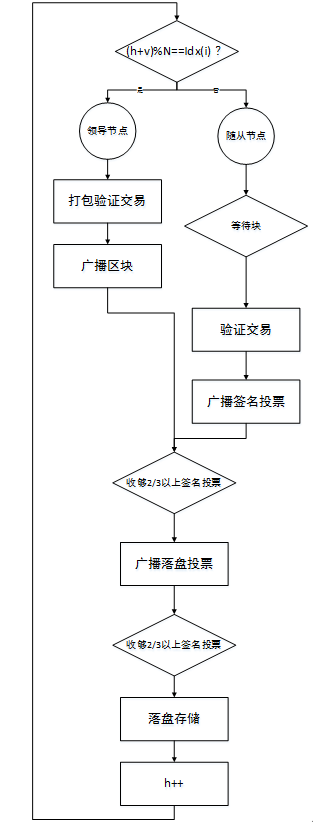
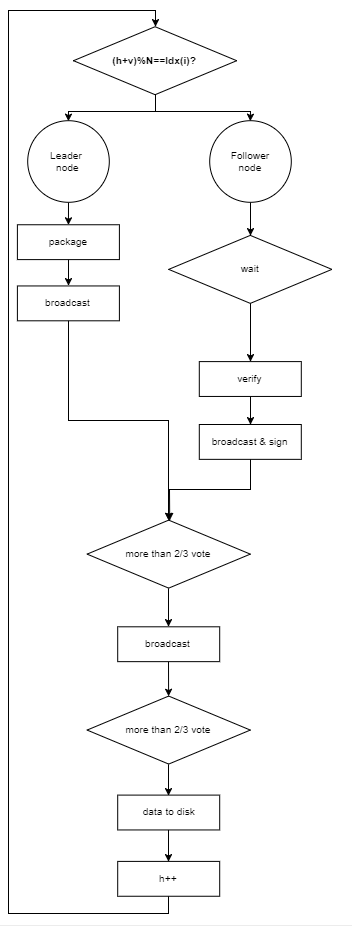
update Multi-Node Parallel Practical Byzantine Fault Tolerance Consensus english introduction

diff --git a/docs/Multi-Node Parallel Practical Byzantine Fault Tolerance Consensus.md b/docs/Multi-Node Parallel Practical Byzantine Fault Tolerance Consensus.md
@@ -1,10 +1,10 @@
-# Multi-Node Parallel Practical Byzantine Fault Tolerance Consensus
+# Multi-Node Parallel Practical Byzantine Fault Tolerance Consensus Algorithm
 **Author: fisco-dev**  
 
 ## 1. Glossary
 ### Blockchain:   
 Blockchain is a growing list of records, called blocks, which are linked using cryptography. Each block contains current block data and a cryptographic hash of the previous block. There are two key concepts of blockchain: cryptography and decentralization. Based on there two key concepts, the block data can not be tampered. 
-A block contains block head and block body. The block head contains the block height(h), previous block hash(prevHash) and etc, and the block body mainly contains transaction data.
+A block contains block head and block body. The block head contains the block height(h), previous block hash(prevHash) and etc., and the block body mainly contains transaction data.
 <br>
 ![](./assets/pbft_blockchain.jpg)  
 ### P2P(peer-to-peer) network: 
@@ -15,7 +15,7 @@ Unlike traditional centralized networks, P2P networks is that participants make 
 4. **Cost-effective**: In the P2P network,The nodes are generally ordinary machines and use the ordinary machines to build the entire network system for industrial level service, so it has a considerable cost advantage. 
 ### Node: 
 In a P2P network, every participant is a node and the nodes constitute the blockchain. In a blockchain P2P network, a node is a uniquely-identified participant with a complete ledger copy, and able to participate in consensus and account maintenance.
-### Consensus: 
+### Consensus algorithm: 
 Every node in the blockchain P2P network confirms a batch of transactions by an algorithm and ensures that all nodes have consistent confirmation results for the batch of transactions. This algorithm is a blockchain consensus.
 ### Byzantine Fault Tolerant(BFT): 
 Byzantine fault tolerance comes from the Byzantine general problem. In a P2P network system, nodes may operate in any form, includes jointly to be evil. As long as the number of such faulty nodes is within a certain range and the system is still functioning properly, means the system has Byzantine fault tolerance.
@@ -24,34 +24,34 @@ Byzantine fault tolerance comes from the Byzantine general problem. In a P2P net
 ### 2.1 Existing consensus
 The existing consensus algorithms of blockchain mainly include Proof of Work(POW), Proof of Stake(POS), Delegated Proof of Stake(DPOS) and Practical Byzantine Fault Tolerance(PBFT). Among consensus algorithms, POW, POS, DPOS are mainly used for public chains like bitcoin, but PBFT is used for traditional distributed systems, which accomplishes the consensus algorithm through three rounds of broadcast communication.   
  ![](./assets/pbft_consensus.jpg)
-### 2.2 Insufficient calculation of existing consensus
+### 2.2 Insufficient calculation of existing consensus algorithm
 - POW build consensus through computation, so it causing a lot of energy consumption also unstable block generating time.
 - POS、DPOS build consensus by using token, so it may easy to cause the tokens to be centralized, so that the consensus is controlled by a few people, and a few people can work together to destroy the network;
-- PBFT是一种可用的拜占庭容错算法, 但是由于该算法的三个阶段是串行执行, 存在共识效率低的问题. 
+- PBFT algorithm's three phases are serial computing so consensus efficiency is low.
 
-## 3. 应用于区块链的多节点并行拜占庭容错共识算法
-### 3.1 节点角色
-区块链节点的角色有两种, 分别是“领导节点”和“随从节点”. 
-- 领导节点: 负责对交易进行打包成块, 把块广播给其他节点, 通过共识过程对块中所有交易进行确认, 从而使得区块链的区块高度不断增加. 
-- 随从节点: 负责接收从领导节点发送来的区块, 对区块中的交易进行确认, 所有交易都确认完毕就对该块进行签名验证, 从而使共识达成. 
-### 3.2 角色变迁
-在本算法中, 节点的角色不是固定不变的, 随着时间迁移节点角色也会进行变迁. 
-区块链网络由一个个节点组成, 假设一共有N个节点, 对节点从0,1,2...N-1进行编号, 每个节点对应一个唯一的Idx(i). 一个节点的角色判断通过公式 （h+v）%N 来决定, 其中h是区块链当前块高度, v是当前视图（视图的定义在3.4节会详细阐述）.   
-角色变迁图如下所示:   
+## 3. Multi-Node Parallel Practical Byzantine Fault Tolerance Consensus Algorithm
+### 3.1 Node Roles
+- Leader node: Leader packages and broadcasts the block to other nodes. Transactions in the block are verified by consensus algorithm and after verification the block height will increase.
+- Follower node: Followers receive block from the leader node and confirm whether the transaction is valid, followers will sign the signature to the block when the nodes agree on a block., then the consensus process is done.
+### 3.2 Node's role transition
+In PBFT, node's role is changed as time going.
+As we known that bloclchain build up by nodes, assume that there are N nodes totally, and each node has a unique index: Idx(i). and node's role is decided by a formula: (h+v)%N. h is the current block height, v is the current view(more information about view in section  [3.4 Exception handling](#exception-handling)).
  ![](./assets/pbft_role.png)
-### 3.3 共识过程
-共识过程就是区块链网络对一批交易进行确认, 并达到全网一致的过程. 共识过程分为以下几个阶段:   
-1. 选举领导: 通过3.2描述的算法推选出一个领导, 有别于其他基于投票选举领导的算法, 在本专利中是通过共识计算选出合适的领导, 这种方式具有更高的效率.   
-2. 打包验证交易: 选举出的领导节点, 将会一批交易进行打包验证, 组成一个区块, 区块的产生也就由领导节点负责.   
-3. 签名投票: 随从节点对领导节点发送来的区块, 进行每一笔交易确认验证, 全部通过之后发送对该块的一个投票签名.   
-4. 落盘投票: 所有节点在收到2/3以上节点的签名投票之后, 广播落盘投票.   
-5. 落盘提交: 所有节点在收到2/3以上节点额落盘投票之后, 把该块进行落盘存储.     
- ![](./images/process.png) 
-###  3.4 异常处理机制
+### 3.3 Consensus decision-making
+
+Consensus decision-making is a group decision-making process, and agree to support a decision of the whole. Consensus decision-making has following steps:
+1. Leader election: Use the algorithm mentioned in section 3.2 to elect a leader. Compare with the traditional leader election algorithm, the patent algorithm holds by FISCO BCOS is more efficient.
+2. Package transaction: Leader packages and creats a new block, then broadcasts the block to other nodes.
+3. Sign: Followers receive block from the leader node and confirm whether the transaction is valid, followers will sign the signature to the block when the nodes agree on a block.
+4. Vote: If more than 2/3 of all nodes sign the transaction, then broadcast it.
+5. Data to disk: If more than 2/3 of all nodes vote, then store the data to disk.
+<br>
+ ![](./assets/pbft_process.png) 
+###  3.4 Exception handling
 在3.3的描述的共识过程几个阶段, 每个阶段都有可能因为出现错误、超时或者故意作恶等各种原因致使无法顺利进入下一个阶段, 从而使共识无法达成. 本专利引入异常处理机制解决这种问题.   
 把一次共识共识的全过程定义为一个视图, 所有阶段需要在同一个视图下完成.   
 当一个节点完成块h的落盘存储之后, 意味着它就需要开始块h+1的共识过程, 此时会对块h+1的共识设置一个超时器, 当到达超时还未完成共识过程就会引起视图切换过程. 视图切换的过程首先是将自己的视图v++, 然后把v全网广播告知所有节点, 如果收到2/3以上节点都有相同的视图v切换请求, 就顺利切换到下一个视图.   
-![](./images/error.png)   
+![](./assets/pbft_error.png)   
 ### 3.5 并行机制
 在3.3介绍的共识过程中, 打包验证交易和验证交易分别是领导节点和随从节点对交易进行确认的操作, 这是整个共识过程中最耗时的环节. 从图中可以看出, 打包验证交易和验证交易是串行执行的, 首先要由领导节点完成打包验证交易, 随从节点的验证交易才能开始进行, 假设交易确认耗时为T, 其他过程总耗时为T’, 那么整个共识的耗时就为2*T+T’. 本专利对交易确认机制提出并行化的改进设计, 整体共识耗时降为T+T’, 大大提高了共识效率.   
-![](./images/parallel.png)  
+![](./assets/pbft_parallel.png)  

diff --git a/docs/AMOP.md b/docs/AMOP.md
@@ -2,19 +2,19 @@
 **Author: fisco-dev**  
 ## Introduction
 AMOP (Advance Messages Onchain Protocol) aims to provide a safe and efficient message channel. In consortium chain, all nodes, no matter consensus node or observation node, can use AMOP as the message channel with the following advantages:
-- Real-time: AMOP messages do not rely on transactions and consensus. Messages are transmitted between nodes with a milliseconds delay.  
-- Reliable: When the message is transmitted by AMOP, it will leverage any feasible routes in the blockchain network, and the message is guaranteed to be reachable as long as at least one route is available between sender and receiver node.
-- Efficient: AMOP protocal is concise and clean. It takes very minimized CPU and network bandwidth.
-- Security: Supports SSL encryption on network and the encryption algorithm can be configured.
+- Real-time: AMOP messages do not rely on transactions and consensus. Messages are transmitted nearly real-time with only a few milliseconds delay between nodes.  
+- Reliable: When the message is transmitted by AMOP, it will leverage any feasible routes in the blockchain network.The message is guaranteed to be reachable as long as at least one route is available between sender and receiver node.
+- Efficient: AMOP protocol is concise and clean. It takes very minimized CPU and network bandwidth.
+- Secure: Supports SSL encryption on the network and the encryption algorithm is configurable.
 - Easy to use: AMOP is embedded in the SDK.
 
 ## Network Architecture
 ![](./assets/amop_en.png)  
 Take the classic IDC (Internet Data Center) bank architecture as an example:  
-- SF (Server Farm) area: Applications within the organization intranet can leverage the SDK to send AMOP messages to the proxy. If no DMZ, link to blockchain node directly.
-- DMZ (Demilitarized Zone) area: physical or logical isolated network. This area is optional but recommended for better security. 
+- SF (Server Farm) area: Applications within the organization's intranet can leverage the SDK to send AMOP messages to the proxy. If there is no DMZ, applications will link to blockchain nodes directly.
+- DMZ (Demilitarized Zone) area: Physical or logical isolated network. This area is optional but recommended for better security.
 - Blockchain P2P network: The logical area which contains blockchain nodes from different organizations. This is usually deployed within the DMZ zone but can also be placed in the SF area.
-- Proxy Server: Responsible for forwarding messages from internal applicatoins to the blokchain P2P network. It is recommended to put the proxy inside DMZ
+- Proxy Server: Responsible for forwarding messages from internal applications to the blockchain P2P network. It is recommended to place the proxy inside DMZ.
 
 ## Configuration
 Below is a sample code for sending AMOP messages (Spring Bean):
@@ -63,7 +63,7 @@ Below is a sample code for sending AMOP messages (Spring Bean):
 </bean>
 ```
 
-If DMZ is used, the below is required for the proxy server:
+If DMZ is used, the below is require to configured for the proxy server:
 ```xml
 
 <?xml version="1.0" encoding="UTF-8" ?>
@@ -101,9 +101,9 @@ If DMZ is used, the below is required for the proxy server:
 ```
 
 ## How to use SDK
-The sending and receiving is based on publish-subscribe pattern. The server creates the topic and subscribes to it. Clients connect to the topic and can send message to the server.
+The sending and receiving is based on publish-subscribe pattern. The server creates the topic and subscribes to it. Clients connect to the topic to send message to the server.
 
-Multiple topics are supported in a block chain. There is no limitation for the number of servers and clients. If multiple servers are subscribing to the same topic, only the first available server will receive the message.
+Multiple topics are supported in a blockchain. There is no limitation for the number of servers and clients. If multiple servers are subscribing to the same topic, only the first available server will receive the message.
 
 Server-side example:
 
@@ -241,7 +241,7 @@ public class Channel2Client {
 ```
 
 ## Running the test app locally
-After creating the above configurations, you can start the AMPO server and client with the below command lines:
+After creating the above configurations, you can start the AMOP server and client with the below command lines:
 
 Start AMOP server:
 
@@ -257,5 +257,5 @@ java -cp 'conf/:apps/*:lib/*' cn.webank.channel.test.Channel2Client [topic name]
 
 ## Error Code
 
-- 99: Message failed to deliver as there is no available route to the destination server. Suggest to check the node status with the sequence generated while sending and verify the route status.
+- 99: Message failed to deliver as there is no available route to the destination server. Check the node status with the sequence number(seq) generated while sending message as well as verify the route status.
 - 102: Connection Timeout. The server may be overloaded or not reachable.
